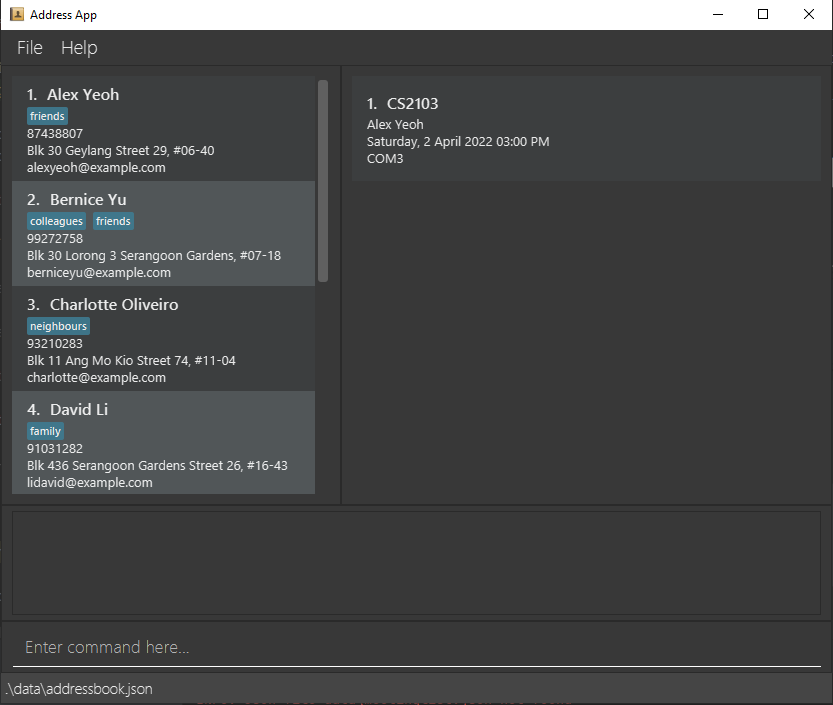
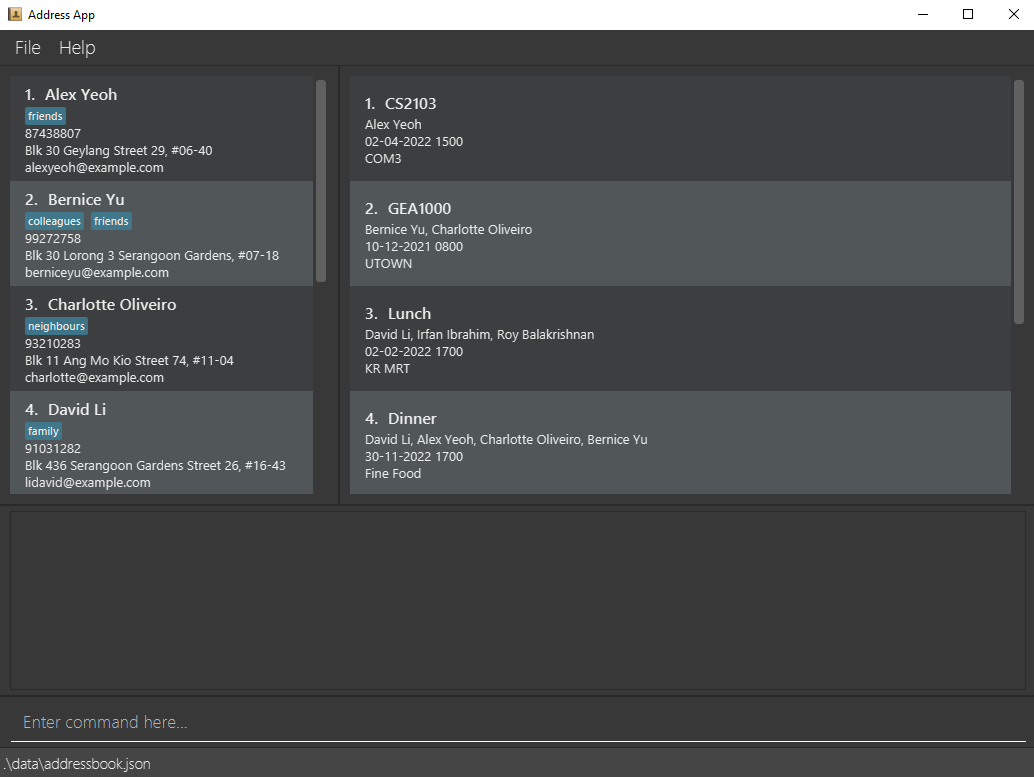
Updates on index.md and minor tweaks to UserGuide

Changed region(s): [[0.0, 0.0, 1.0, 0.7177], [0.0, 0.905, 0.9676, 0.9986], [0.2185, 0.9362, 1.0, 1.0]]

diff --git a/docs/index.md b/docs/index.md
@@ -1,17 +1,17 @@
 ---
 layout: page
-title: AddressBook Level-3
+title: Yellow Pages
 ---
 
 [![CI Status](https://github.com/se-edu/addressbook-level3/workflows/Java%20CI/badge.svg)](https://github.com/se-edu/addressbook-level3/actions)
-[![codecov](https://codecov.io/gh/AY2223S1-CS2103-T05-3/tp/branch/master/graph/badge.svg?token=KEROWHVE8S)](https://codecov.io/gh/AY2223S1-CS2103-T05-3/tp)
+[![codecov](https://codecov.io/gh/AY2223S1-CS2103-F13-3/tp/branch/master/graph/badge.svg?token=KEROWHVE8S)](https://codecov.io/gh/AY2223S1-CS2103-T05-3/tp)
 
-![Ui](images/Ui.png)
+![Ui](images/UiUpdate.png)
 
-**AddressBook is a desktop application for managing your contact details.** While it has a GUI, most of the user interactions happen using a CLI (Command Line Interface).
+**Yellow Pages is a desktop application for managing your contact and meeting details.** While it has a GUI, most of the user interactions happen using a CLI (Command Line Interface).
 
-* If you are interested in using AddressBook, head over to the [_Quick Start_ section of the **User Guide**](UserGuide.html#quick-start).
-* If you are interested about developing AddressBook, the [**Developer Guide**](DeveloperGuide.html) is a good place to start.
+* If you are interested in using Yellow Pages, head over to the [_Quick Start_ section of the **User Guide**](UserGuide.html#quick-start).
+* If you are interested about developing Yellow Pages, the [**Developer Guide**](DeveloperGuide.html) is a good place to start.
 
 
 **Acknowledgements**

diff --git a/docs/UserGuide.md b/docs/UserGuide.md
@@ -89,7 +89,7 @@ Yellow Pages (YP) is a desktop app for managing contacts, optimised for use via 
 
 Shows a message explaining how to access the help page.
 
-![help message](images/helpMessage.png)
+![help message](images/helpMessageUpdated.png)
 
 Format: `help`
 
